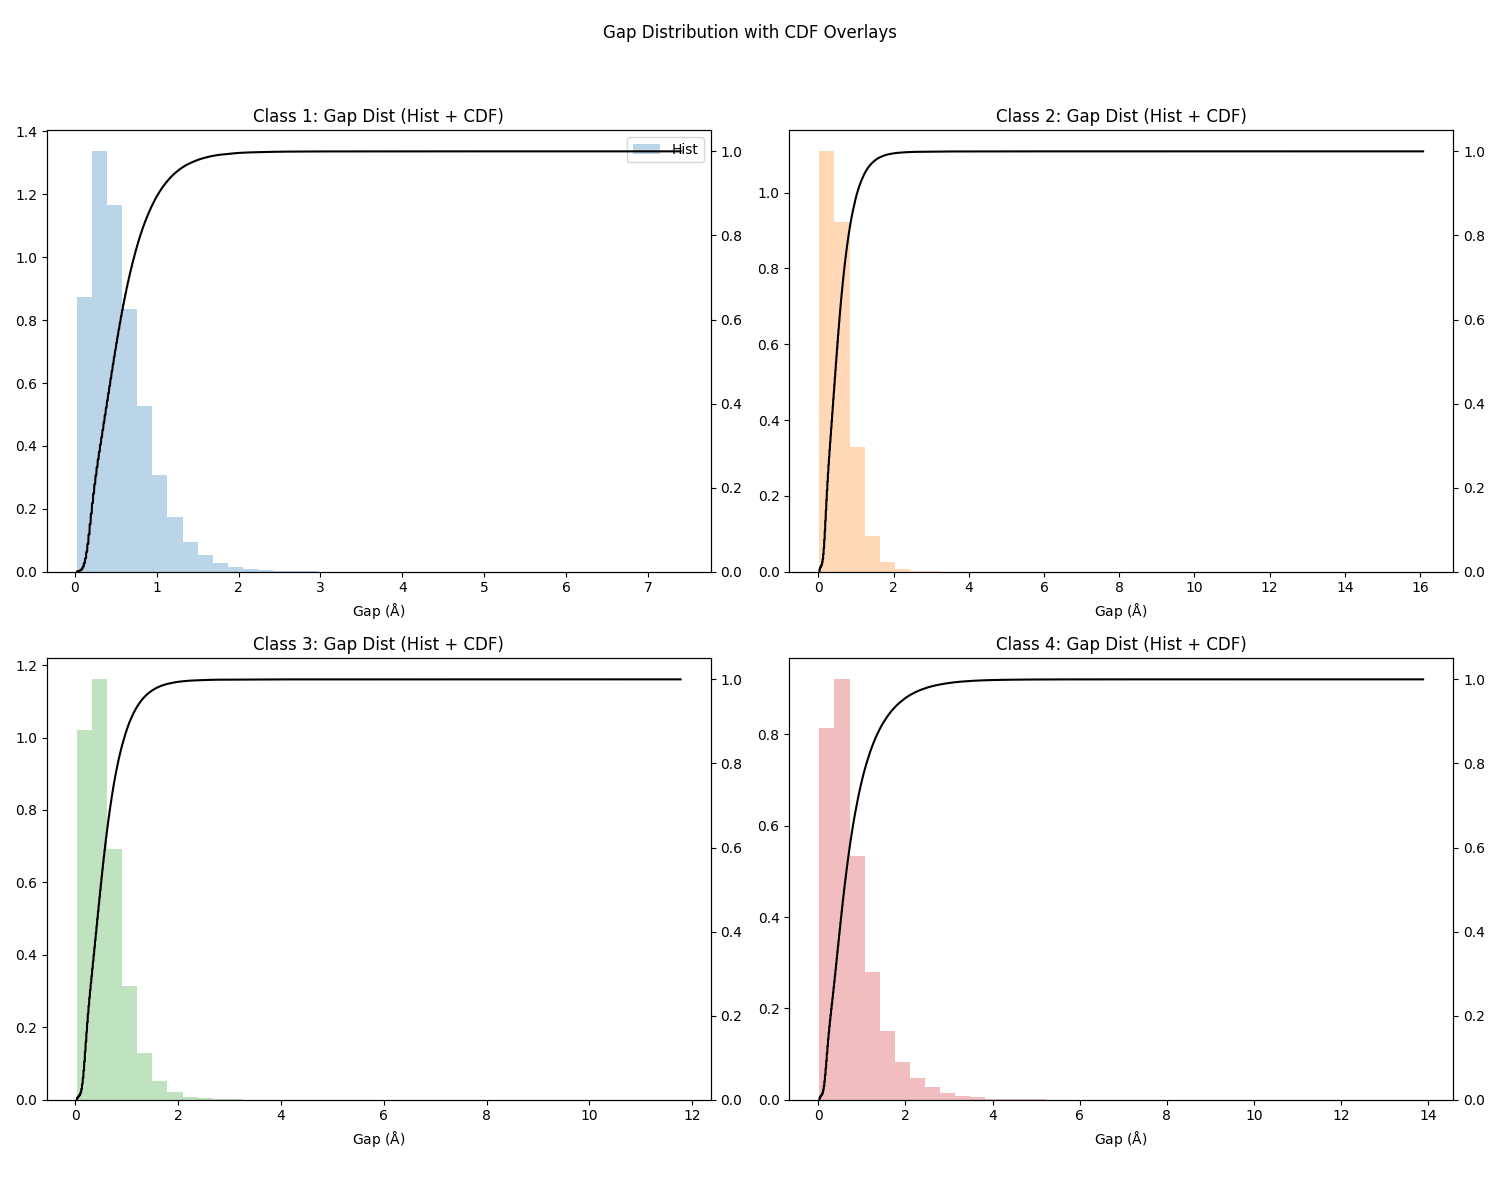
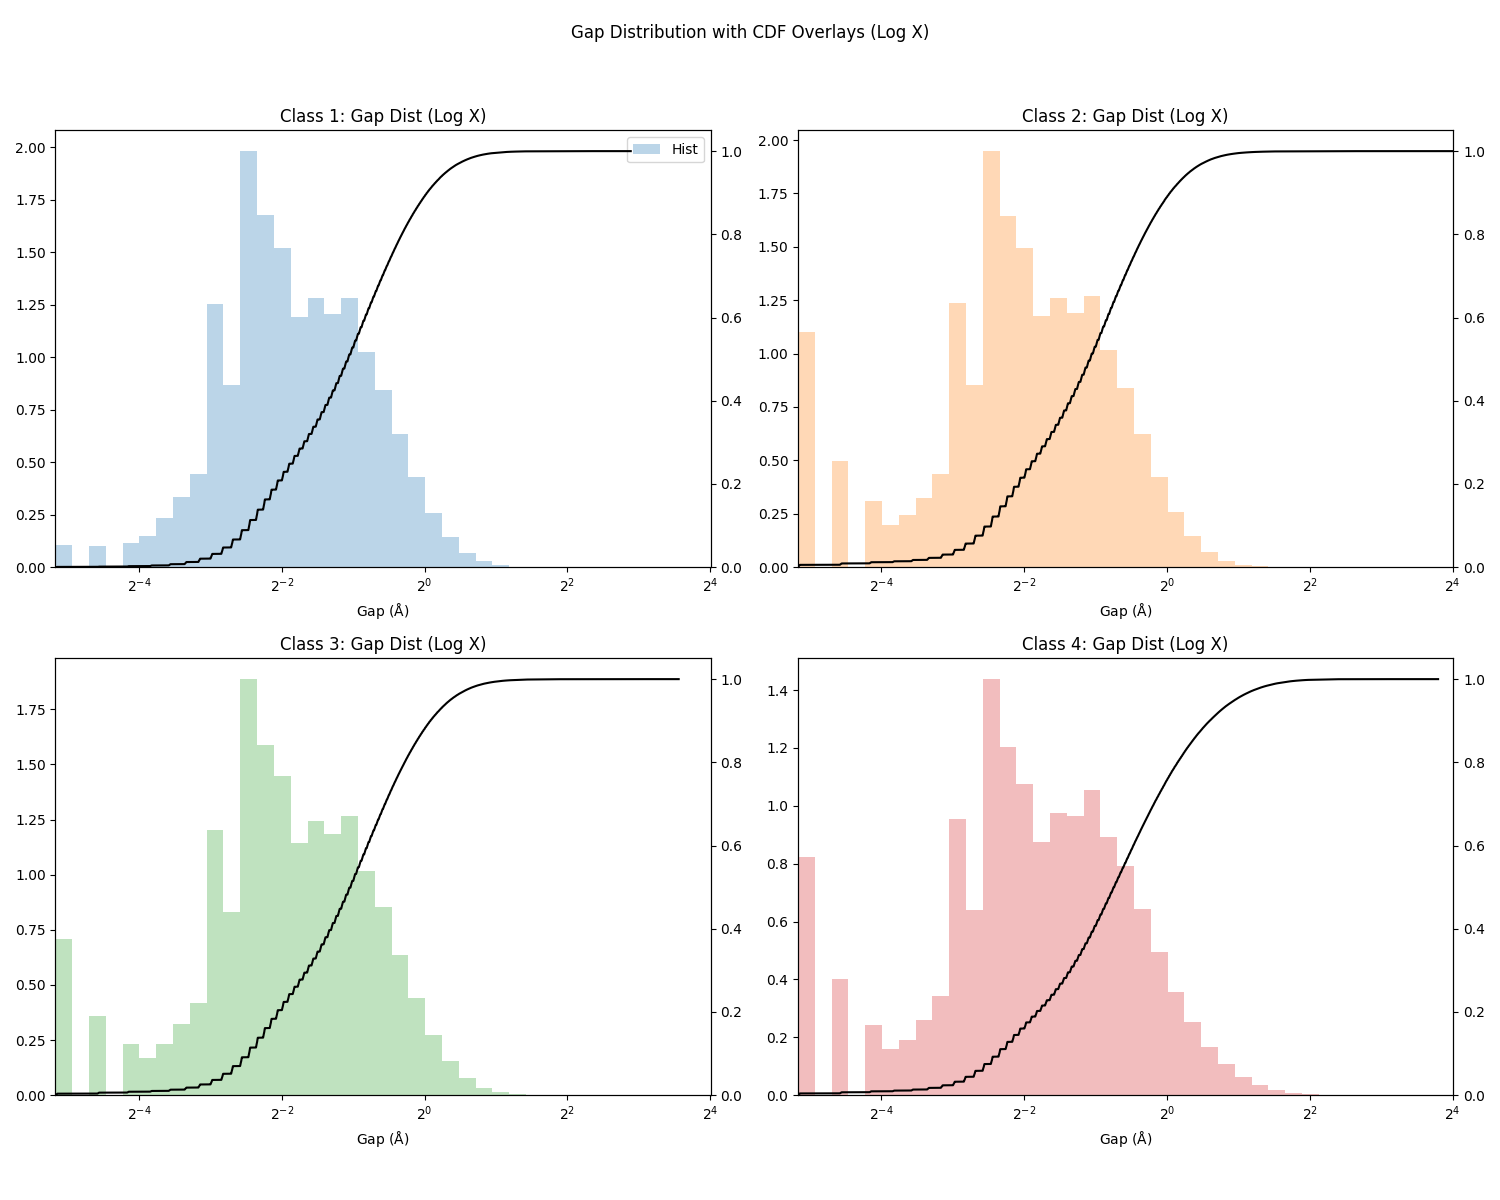
Refactor EDA: Log Base 2 Scales and EW Saddle Point Deblending

diff --git a/scripts/eda_sherwood.py b/scripts/eda_sherwood.py
@@ -20,19 +20,74 @@ def total_equivalent_width(lambda_arr, flux):
     return np.trapezoid(1.0 - flux, lambda_arr)
 
 def local_equivalent_widths(lambda_arr, flux, minima_idx):
-    """Computes pseudo-EW around each local minimum."""
+    """
+    Computes pseudo-EW for each local minimum.
+    Handles overlapping features by splitting at the 'saddle point' (local maximum)
+    between adjacent minima.
+    """
+    if len(minima_idx) == 0:
+        return np.array([])
+    
     local_ews = []
-    for i in minima_idx:
-        left = i
-        right = i
-        # Expand left
-        while left > 0 and flux[left] < 1.0:
-            left -= 1
-        # Expand right
-        while right < len(flux) - 1 and flux[right] < 1.0:
-            right += 1
-        ew = np.trapezoid(1.0 - flux[left:right], lambda_arr[left:right])
+    
+    # 1. Determine boundaries for each minimum
+    # boundaries[i] will be the Left Edge of feature i
+    # boundaries[i+1] will be the Right Edge of feature i
+    boundaries = []
+    
+    # --- Find Leftmost Boundary for the first minimum ---
+    first_min = minima_idx[0]
+    left = first_min
+    while left > 0 and flux[left] < 1.0:
+        left -= 1
+    boundaries.append(left)
+    
+    # --- Find Saddle Points between adjacent minima ---
+    for i in range(len(minima_idx) - 1):
+        idx_curr = minima_idx[i]
+        idx_next = minima_idx[i+1]
+        
+        # Find index of max flux (saddle point) in the region between peaks
+        # We search in range [idx_curr, idx_next]
+        # +1 to include right edge in search if needed, usually just between them
+        segment = flux[idx_curr:idx_next+1] 
+        saddle_rel_idx = np.argmax(segment)
+        saddle_abs_idx = idx_curr + saddle_rel_idx
+        
+        boundaries.append(saddle_abs_idx)
+        
+    # --- Find Rightmost Boundary for the last minimum ---
+    last_min = minima_idx[-1]
+    right = last_min
+    while right < len(flux) - 1 and flux[right] < 1.0:
+        right += 1
+    boundaries.append(right)
+    
+    # 2. Integrate each segment
+    for i in range(len(minima_idx)):
+        l_idx = boundaries[i]
+        r_idx = boundaries[i+1]
+        
+        # Clip indices just in case
+        if l_idx >= r_idx:
+            # Should not happen unless peaks are identical or weirdness
+            local_ews.append(0.0)
+            continue
+            
+        # Get subset of data
+        sub_flux = flux[l_idx : r_idx+1] # Include right edge for integration
+        sub_wave = lambda_arr[l_idx : r_idx+1]
+        
+        # Integrate (1 - flux). 
+        # Note: If flux > 1.0 at the saddle point, this might subtract a bit.
+        # Standard approach is to clamp integrand to 0 or just integrate.
+        # We will integrate as is to preserve continuity, or we could clip:
+        # integrand = np.maximum(0, 1.0 - sub_flux)
+        integrand = 1.0 - sub_flux
+        
+        ew = np.trapezoid(integrand, sub_wave)
         local_ews.append(ew)
+        
     return np.array(local_ews)
 
 def absorption_depths(flux, minima_idx):
@@ -220,8 +275,8 @@ def perform_refined_eda(base_path, output_dir="eda_plots"):
         axes[i].set_title(f"Class {c}: EW vs Density")
         axes[i].set_xlabel(r"Line Density (lines/$\mathrm{\AA}$)")
         axes[i].set_ylabel(r"Total EW ($\mathrm{\AA}$)")
-        axes[i].set_xscale('log')
-        axes[i].set_yscale('log')
+        axes[i].set_xscale('log', base=2)
+        axes[i].set_yscale('log', base=2)
         axes[i].set_xlim(global_limits["line_density"])
         axes[i].set_ylim(global_limits["total_ew"])
         axes[i].grid(True, which="both", alpha=0.1)
@@ -234,22 +289,22 @@ def perform_refined_eda(base_path, output_dir="eda_plots"):
     # File 2a: Hist + KDE 2x2
     fig, axes = get_axes_2x2()
     all_kde_data = {}
-    ew_bins = np.logspace(np.log10(global_limits["local_ew"][0]), np.log10(global_limits["local_ew"][1]), 40)
+    ew_bins = np.logspace(np.log2(global_limits["local_ew"][0]), np.log2(global_limits["local_ew"][1]), 40, base=2)
     for i, c in enumerate(classes):
         data = np.concatenate([f["local_ews"] for f in all_features[c] if len(f["local_ews"]) > 0])
         # Filter for positive values for log histogram
         data = data[data > 0]
         axes[i].hist(data, bins=ew_bins, density=True, alpha=0.3, color=colors[i])
         if len(data) > 1:
-            kde = gaussian_kde(np.log10(data))
-            x_range_log = np.linspace(np.log10(global_limits["local_ew"][0]), np.log10(global_limits["local_ew"][1]), 200)
+            kde = gaussian_kde(np.log2(data))
+            x_range_log = np.linspace(np.log2(global_limits["local_ew"][0]), np.log2(global_limits["local_ew"][1]), 200)
             # KDE in log space needs transformation back for plotting if plotting on log scale
-            y_kde = kde(x_range_log) / (10**x_range_log * np.log(10)) # PDF transformation
-            axes[i].plot(10**x_range_log, y_kde, color=colors[i], lw=2)
-            all_kde_data[c] = (10**x_range_log, y_kde)
+            y_kde = kde(x_range_log) / (2**x_range_log * np.log(2)) # PDF transformation
+            axes[i].plot(2**x_range_log, y_kde, color=colors[i], lw=2)
+            all_kde_data[c] = (2**x_range_log, y_kde)
         axes[i].set_title(f"Class {c}: Local EW Dist")
         axes[i].set_xlabel("Local EW")
-        axes[i].set_xscale('log')
+        axes[i].set_xscale('log', base=2)
         axes[i].set_xlim(global_limits["local_ew"])
     fig.suptitle("Local EW Distribution (Log X)")
     plt.tight_layout(rect=[0, 0.03, 1, 0.95])
@@ -264,7 +319,7 @@ def perform_refined_eda(base_path, output_dir="eda_plots"):
             plt.plot(x, y_val, color=colors[i], label=f"Class {c}", lw=2)
     plt.title("Comparative Local EW KDE (Log X)")
     plt.xlabel("Local EW")
-    plt.xscale('log')
+    plt.xscale('log', base=2)
     plt.ylabel("Density")
     plt.legend()
     plt.savefig(os.path.join(output_dir, "tier1_local_ew_kde_overlap.png"))
@@ -288,7 +343,7 @@ def perform_refined_eda(base_path, output_dir="eda_plots"):
 
     # Plot 4: Gap Distribution (1 file, 2x2 panel: Hist + CDF overlay, Log X)
     fig, axes = get_axes_2x2()
-    gap_bins = np.logspace(np.log10(global_limits["gap"][0]), np.log10(global_limits["gap"][1]), 40)
+    gap_bins = np.logspace(np.log2(global_limits["gap"][0]), np.log2(global_limits["gap"][1]), 40, base=2)
     for i, c in enumerate(classes):
         all_gaps = np.concatenate([f["gaps"] for f in all_features[c] if len(f["gaps"]) > 0])
         if len(all_gaps) > 0:
@@ -303,7 +358,7 @@ def perform_refined_eda(base_path, output_dir="eda_plots"):
             if i == 0: axes[i].legend(loc='upper right')
         axes[i].set_title(f"Class {c}: Gap Dist (Log X)")
         axes[i].set_xlabel(r"Gap ($\mathrm{\AA}$)")
-        axes[i].set_xscale('log')
+        axes[i].set_xscale('log', base=2)
         axes[i].set_xlim(global_limits["gap"])
     fig.suptitle("Gap Distribution with CDF Overlays (Log X)")
     plt.tight_layout(rect=[0, 0.03, 1, 0.95])
@@ -319,7 +374,7 @@ def perform_refined_eda(base_path, output_dir="eda_plots"):
         axes[i].set_title(f"Class {c}: Mean Gap vs Density")
         axes[i].set_xlabel(r"Line Density (Log)")
         axes[i].set_ylabel("Mean Gap")
-        axes[i].set_xscale('log')
+        axes[i].set_xscale('log', base=2)
         axes[i].set_xlim(global_limits["line_density"])
         axes[i].set_ylim(global_limits["gap"])
     fig.suptitle("Mean Gap vs Line Density (Log X)")
@@ -336,7 +391,7 @@ def perform_refined_eda(base_path, output_dir="eda_plots"):
         axes[i].set_title(f"Class {c}: Depth Std vs Density")
         axes[i].set_xlabel(r"Line Density (Log)")
         axes[i].set_ylabel("Depth Std")
-        axes[i].set_xscale('log')
+        axes[i].set_xscale('log', base=2)
         axes[i].set_xlim(global_limits["line_density"])
         axes[i].set_ylim(global_limits["depth_std"])
     fig.suptitle("Depth Dispersion vs Line Density (Log X)")
